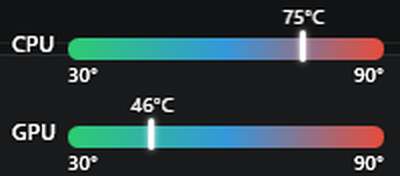
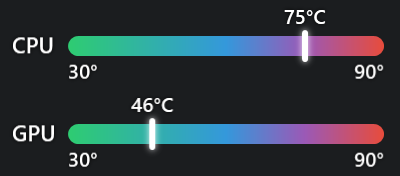
Degradê com roxo entre azul e vermelho
A mistura direta de RGB entre azul e vermelho gerava um cinza dessaturado
por volta de 70°. Adiciona uma parada roxa (#9B59B6) em 75% da escala na
barra, no velocímetro e no círculo, e regera as imagens do README.

diff --git a/TempGauge.xaml b/TempGauge.xaml
@@ -34,12 +34,13 @@
                 <RowDefinition Height="14" />
             </Grid.RowDefinitions>
 
-            <!-- Barra com gradiente verde -> azul -> vermelho -->
+            <!-- Barra com gradiente verde -> azul -> roxo -> vermelho -->
             <Border Grid.Row="1" CornerRadius="5">
                 <Border.Background>
                     <LinearGradientBrush StartPoint="0,0.5" EndPoint="1,0.5">
                         <GradientStop Color="#2ECC71" Offset="0" />
                         <GradientStop Color="#3498DB" Offset="0.5" />
+                        <GradientStop Color="#9B59B6" Offset="0.75" />
                         <GradientStop Color="#E74C3C" Offset="1" />
                     </LinearGradientBrush>
                 </Border.Background>

diff --git a/TempVisuals.cs b/TempVisuals.cs
@@ -26,17 +26,26 @@ public interface ITempView
 /// <summary>Cores e ajudantes compartilhados pelos indicadores.</summary>
 public static class TempVisuals
 {
-    private static readonly Color Cool = (Color)ColorConverter.ConvertFromString("#2ECC71");   // verde
-    private static readonly Color Mid = (Color)ColorConverter.ConvertFromString("#3498DB");    // azul
-    private static readonly Color Hot = (Color)ColorConverter.ConvertFromString("#E74C3C");    // vermelho
+    // Paradas do degradê. O roxo entre azul e vermelho evita o cinza que uma mistura direta de RGB produz.
+    private static readonly (double At, Color Color)[] Stops =
+    {
+        (0.00, (Color)ColorConverter.ConvertFromString("#2ECC71")),   // verde
+        (0.50, (Color)ColorConverter.ConvertFromString("#3498DB")),   // azul
+        (0.75, (Color)ColorConverter.ConvertFromString("#9B59B6")),   // roxo
+        (1.00, (Color)ColorConverter.ConvertFromString("#E74C3C"))    // vermelho
+    };
 
-    /// <summary>Cor do degradê verde → azul → vermelho para uma fração de 0 a 1.</summary>
+    /// <summary>Cor do degradê verde → azul → roxo → vermelho para uma fração de 0 a 1.</summary>
     public static Color ColorAt(double fraction)
     {
         fraction = Math.Clamp(fraction, 0, 1);
-        return fraction < 0.5
-            ? Lerp(Cool, Mid, fraction * 2)
-            : Lerp(Mid, Hot, (fraction - 0.5) * 2);
+        for (int i = 1; i < Stops.Length; i++)
+        {
+            if (fraction <= Stops[i].At)
+                return Lerp(Stops[i - 1].Color, Stops[i].Color,
+                    (fraction - Stops[i - 1].At) / (Stops[i].At - Stops[i - 1].At));
+        }
+        return Stops[^1].Color;
     }
 
     public static double Fraction(double? temp, double min, double max)

diff --git a/TempCircle.cs b/TempCircle.cs
@@ -6,7 +6,7 @@ using System.Windows.Shapes;
 
 namespace TempBar;
 
-/// <summary>Círculo com o valor no centro; a cor segue o degradê verde → azul → vermelho da temperatura.</summary>
+/// <summary>Círculo com o valor no centro; a cor segue o degradê verde → azul → roxo → vermelho da temperatura.</summary>
 public class TempCircle : UserControl, ITempView
 {
     public const double CellWidth = 66, CellHeight = 66;

diff --git a/TempDial.cs b/TempDial.cs
@@ -5,7 +5,7 @@ using System.Windows.Shapes;
 
 namespace TempBar;
 
-/// <summary>Velocímetro: semicírculo com degradê verde → azul → vermelho e ponteiro animado.</summary>
+/// <summary>Velocímetro: semicírculo com degradê verde → azul → roxo → vermelho e ponteiro animado.</summary>
 public class TempDial : UserControl, ITempView
 {
     public const double CellWidth = 112, CellHeight = 72;

diff --git a/README.md b/README.md
@@ -18,7 +18,7 @@ Duas barras minimalistas que mostram a temperatura da **CPU** e da **GPU** sempr
 
 ## Recursos
 
-- Barra de gradiente (verde → azul → vermelho) com um marcador animado que acompanha a temperatura.
+- Barra de gradiente (verde → azul → roxo → vermelho) com um marcador animado que acompanha a temperatura.
 - Mínimo e máximo da escala nas pontas e o valor atual em °C acima do marcador.
 - **Três layouts**: **barra**, **velocímetro** (semicírculo com degradê e ponteiro animado) e **círculo** (valor no centro, cor em degradê conforme a temperatura).
 - Um indicador para CPU e outro para GPU, **empilhados** ou **lado a lado**, em qualquer layout.
